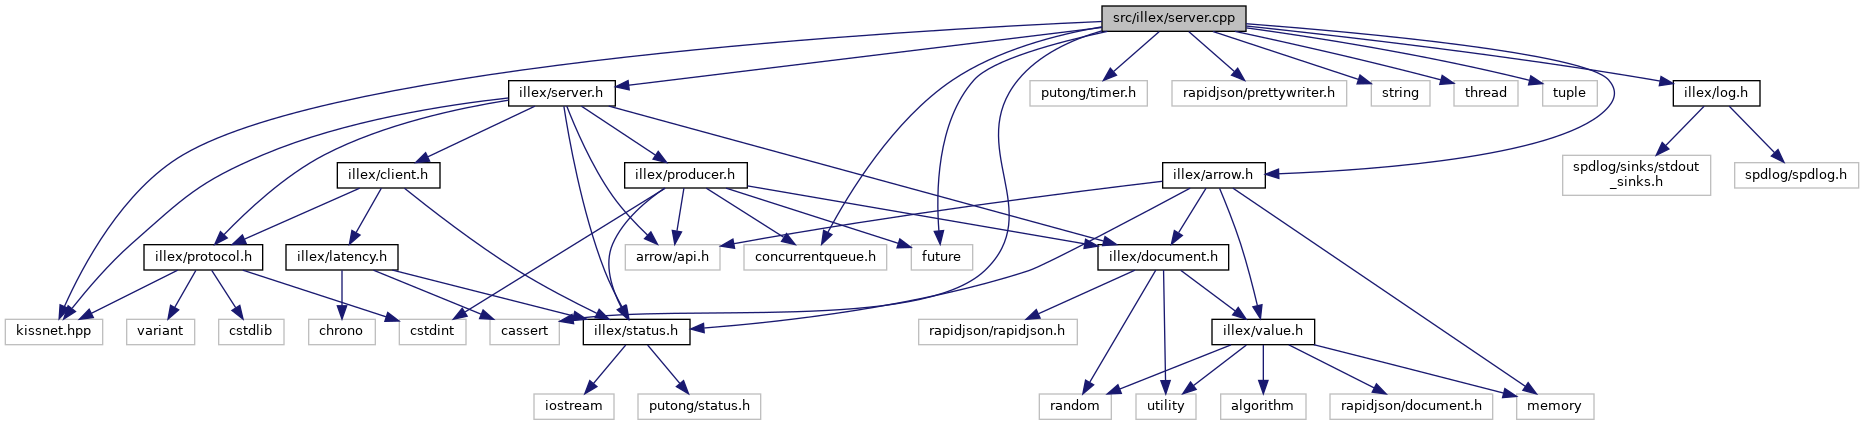
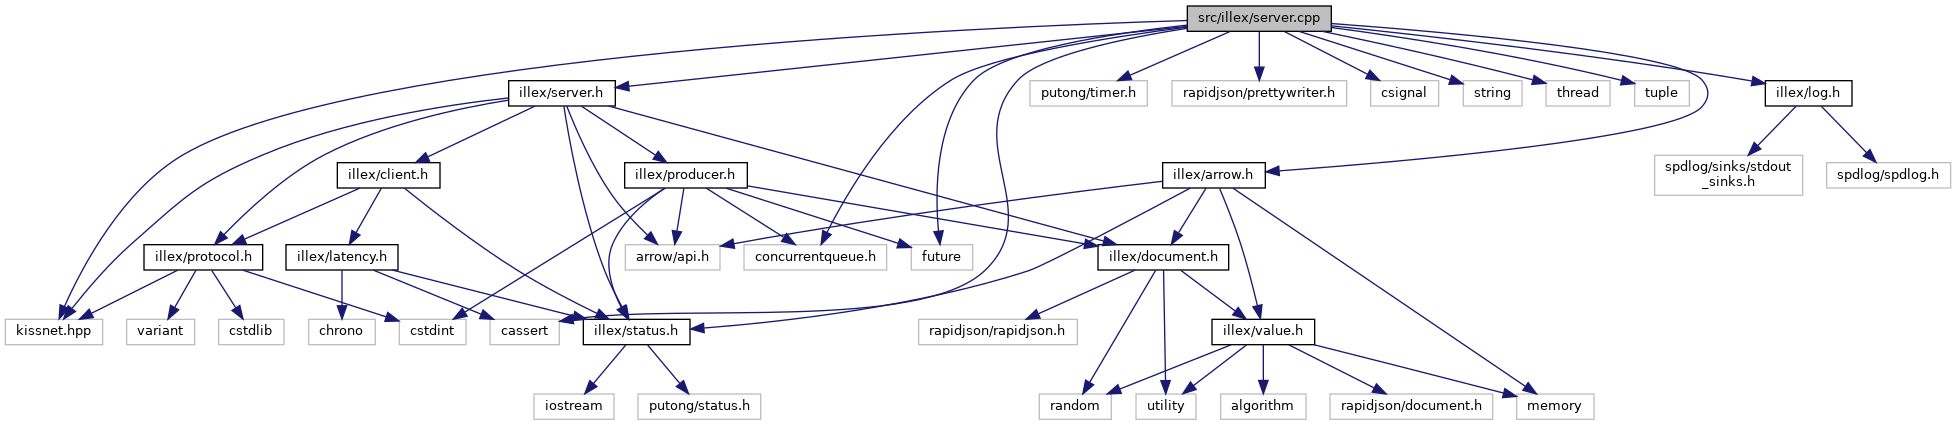
deploy: 8d37ba0c01fc00bd5337b43e756f02f2cceaaff9

diff --git a/server_8h_source.html b/server_8h_source.html
@@ -84,7 +84,7 @@ $(function() {
 <div class="ttc" id="structillex_1_1_stream_statistics_html_a5cae60f84630a5e5a8dbc96cefa466c4"><div class="ttname"><a href="structillex_1_1_stream_statistics.html#a5cae60f84630a5e5a8dbc96cefa466c4">illex::StreamStatistics::time</a></div><div class="ttdeci">double time</div><div class="ttdoc">Total time spent transmitting. </div><div class="ttdef"><b>Definition:</b> server.h:36</div></div>
 <div class="ttc" id="structillex_1_1_stream_statistics_html"><div class="ttname"><a href="structillex_1_1_stream_statistics.html">illex::StreamStatistics</a></div><div class="ttdoc">Streaming statistics. </div><div class="ttdef"><b>Definition:</b> server.h:30</div></div>
 <div class="ttc" id="client_8h_html"><div class="ttname"><a href="client_8h.html">client.h</a></div></div>
-<div class="ttc" id="namespaceillex_html_af439ec40ba77fbbebd9b4ba87173cdd4"><div class="ttname"><a href="namespaceillex.html#af439ec40ba77fbbebd9b4ba87173cdd4">illex::RunServer</a></div><div class="ttdeci">auto RunServer(const ServerOptions &amp;server_options, const ProductionOptions &amp;production_options, const RepeatOptions &amp;repeat_options, bool statistics) -&gt; Status</div><div class="ttdoc">Use a RawServer to stream the specified JSONs out. </div><div class="ttdef"><b>Definition:</b> server.cpp:156</div></div>
+<div class="ttc" id="namespaceillex_html_af439ec40ba77fbbebd9b4ba87173cdd4"><div class="ttname"><a href="namespaceillex.html#af439ec40ba77fbbebd9b4ba87173cdd4">illex::RunServer</a></div><div class="ttdeci">auto RunServer(const ServerOptions &amp;server_options, const ProductionOptions &amp;production_options, const RepeatOptions &amp;repeat_options, bool statistics) -&gt; Status</div><div class="ttdoc">Use a RawServer to stream the specified JSONs out. </div><div class="ttdef"><b>Definition:</b> server.cpp:164</div></div>
 <div class="ttc" id="structillex_1_1_repeat_options_html"><div class="ttname"><a href="structillex_1_1_repeat_options.html">illex::RepeatOptions</a></div><div class="ttdoc">Repeat mode options. </div><div class="ttdef"><b>Definition:</b> server.h:42</div></div>
 <div class="ttc" id="structillex_1_1_production_stats_html"><div class="ttname"><a href="structillex_1_1_production_stats.html">illex::ProductionStats</a></div><div class="ttdoc">Statistics on JSON production. </div><div class="ttdef"><b>Definition:</b> producer.h:57</div></div>
 <div class="ttc" id="structillex_1_1_stream_statistics_html_a60ec914616050870cc9528af14370bef"><div class="ttname"><a href="structillex_1_1_stream_statistics.html#a60ec914616050870cc9528af14370bef">illex::StreamStatistics::num_bytes</a></div><div class="ttdeci">size_t num_bytes</div><div class="ttdoc">Number of bytes transmitted. </div><div class="ttdef"><b>Definition:</b> server.h:34</div></div>

diff --git a/server_8cpp.html b/server_8cpp.html
@@ -76,6 +76,7 @@ $(function() {
 <code>#include &lt;putong/timer.h&gt;</code><br />
 <code>#include &lt;rapidjson/prettywriter.h&gt;</code><br />
 <code>#include &lt;cassert&gt;</code><br />
+<code>#include &lt;csignal&gt;</code><br />
 <code>#include &lt;future&gt;</code><br />
 <code>#include &lt;kissnet.hpp&gt;</code><br />
 <code>#include &lt;string&gt;</code><br />
@@ -89,8 +90,8 @@ Include dependency graph for server.cpp:</div>
 <div class="center"><img src="server_8cpp__incl.png" border="0" usemap="#src_2illex_2server_8cpp" alt=""/></div>
 <map name="src_2illex_2server_8cpp" id="src_2illex_2server_8cpp">
 <area shape="rect" id="node2" href="server_8h.html" title="illex/server.h" alt="" coords="509,80,615,107"/>
-<area shape="rect" id="node32" href="arrow_8h.html" title="illex/arrow.h" alt="" coords="1163,162,1265,189"/>
-<area shape="rect" id="node33" href="log_8h.html" title="illex/log.h" alt="" coords="1673,80,1760,107"/>
+<area shape="rect" id="node33" href="arrow_8h.html" title="illex/arrow.h" alt="" coords="1163,162,1265,189"/>
+<area shape="rect" id="node34" href="log_8h.html" title="illex/log.h" alt="" coords="1765,80,1852,107"/>
 <area shape="rect" id="node5" href="client_8h.html" title="illex/client.h" alt="" coords="337,162,440,189"/>
 <area shape="rect" id="node9" href="status_8h.html" title="illex/status.h" alt="" coords="583,319,690,345"/>
 <area shape="rect" id="node12" href="protocol_8h.html" title="illex/protocol.h" alt="" coords="144,244,263,271"/>
